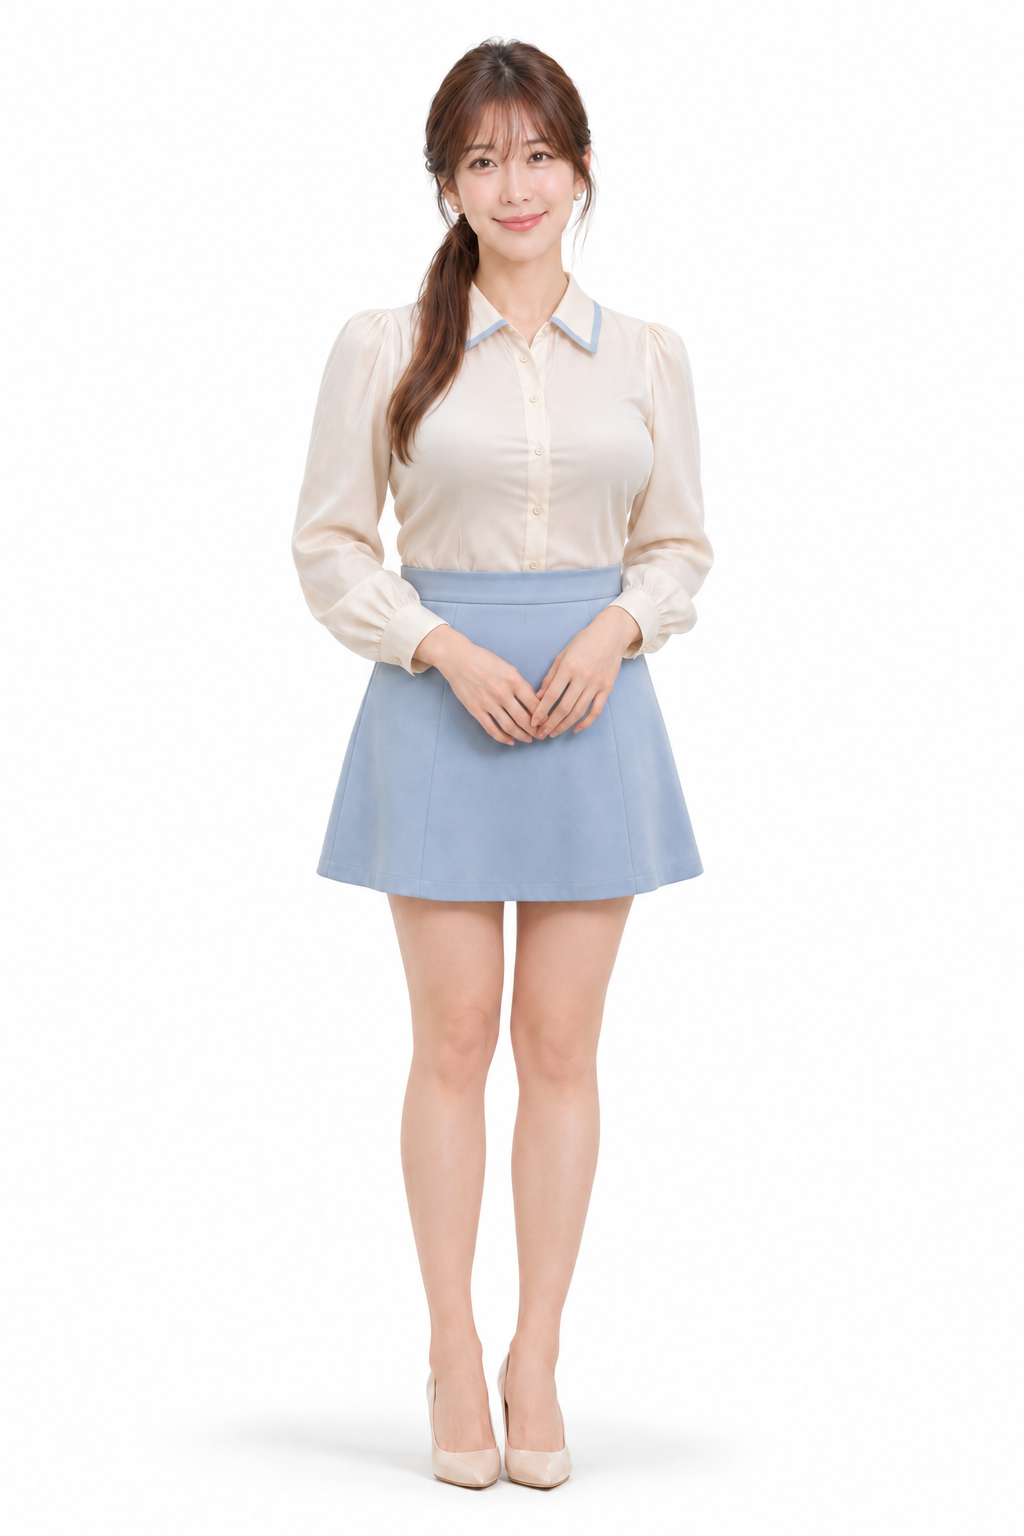
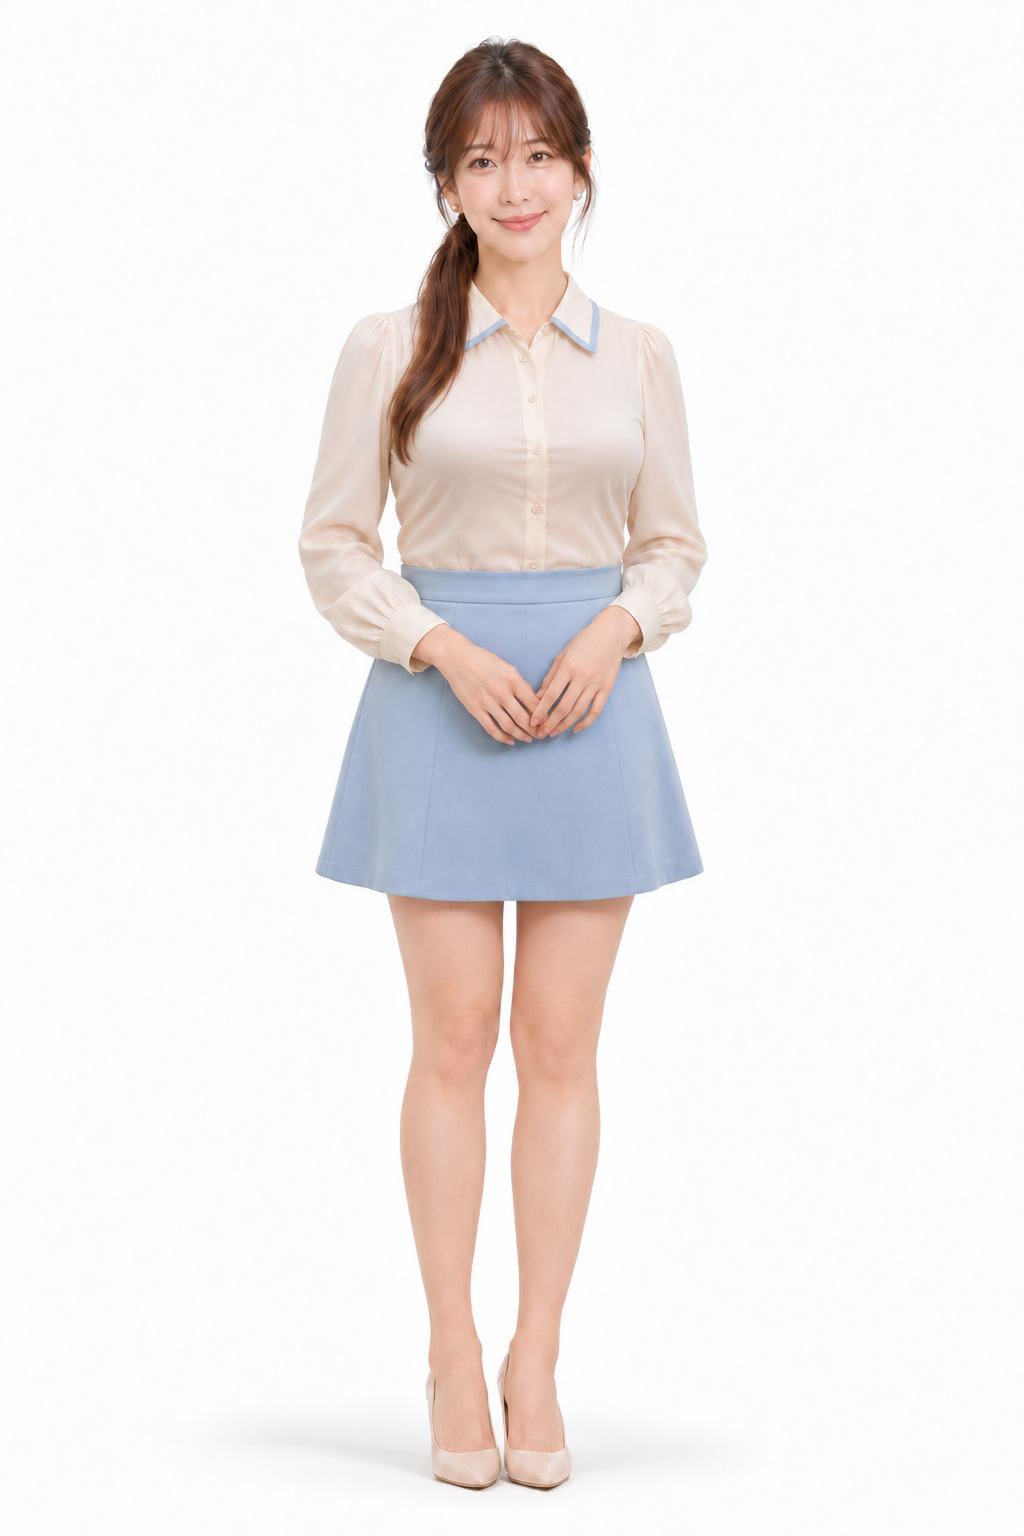
Crop inner top for 04 and refine natural proportions for 38 and 56

diff --git a/assets/fullbody/README.md b/assets/fullbody/README.md
@@ -7,7 +7,7 @@
 - 裙裝／連身裙裝：46 人（71.9%）；褲裝：18 人（28.1%），已依後續指定更新。
 - 裙裝中膝上：40 人（87.0%）；其餘 6 人為及膝以下。
 - 有跟鞋：50 人（78.1%）；帆布鞋／運動鞋：6 人（06、08、13、24、27、40）；其他平底鞋：8 人（02、04、05、09、22、23、39、42），依後續指定更新。
-- 01～32 中短版露腰上衣：9 人（28.1%），編號 01、03、05、07、09、11、15、22、30。
+- 01～32 中短版露腰上衣：10 人（31.25%），編號 01、03、04、05、07、09、11、15、22、30。
 
 各圖為 AI 延伸創作，保留參考人物特徵，但並非真實人物攝影，也不保證臉部像素完全相同。服裝及對應資料見 [manifest.json](manifest.json)。
 
@@ -18,7 +18,7 @@
 | avatar-01 | ![頭像](../avatars/avatar-01.webp) | [查看全身照](avatar-01.png) | 裙裝・膝上・短版露腰 | 有跟鞋 |
 | avatar-02 | ![頭像](../avatars/avatar-02.webp) | [查看全身照](avatar-02.png) | 裙裝・膝上 | 平底鞋 |
 | avatar-03 | ![頭像](../avatars/avatar-03.webp) | [查看全身照](avatar-03.png) | 裙裝・膝上・短版露腰 | 有跟鞋 |
-| avatar-04 | ![頭像](../avatars/avatar-04.webp) | [查看全身照](avatar-04.png) | 褲裝 | 平底鞋 |
+| avatar-04 | ![頭像](../avatars/avatar-04.webp) | [查看全身照](avatar-04.png) | 褲裝・短版露腰內搭 | 平底鞋 |
 | avatar-05 | ![頭像](../avatars/avatar-05.webp) | [查看全身照](avatar-05.png) | 裙裝・膝上・短版露腰 | 平底鞋 |
 | avatar-06 | ![頭像](../avatars/avatar-06.webp) | [查看全身照](avatar-06.png) | 褲裝 | 帆布鞋 |
 | avatar-07 | ![頭像](../avatars/avatar-07.webp) | [查看全身照](avatar-07.png) | 裙裝・膝上・短版露腰 | 有跟鞋 |
@@ -114,3 +114,5 @@
 最新調整：02、23、39 改平底鞋；38、51 上圍加豐滿。原頭像不變。
 
 02、23、39、38、51 再次修整過度銳化、塊狀陰影與不自然微細節；38、51 適度加寬腰部，維持豐滿上圍並改善胸腰比例。原頭像不變。
+
+最新調整：04 僅內搭改短版、牛仔外套不變；38 肩寬稍收窄並改自然胸型，保留協調腰圍；56 胸型改自然。原頭像不變。
